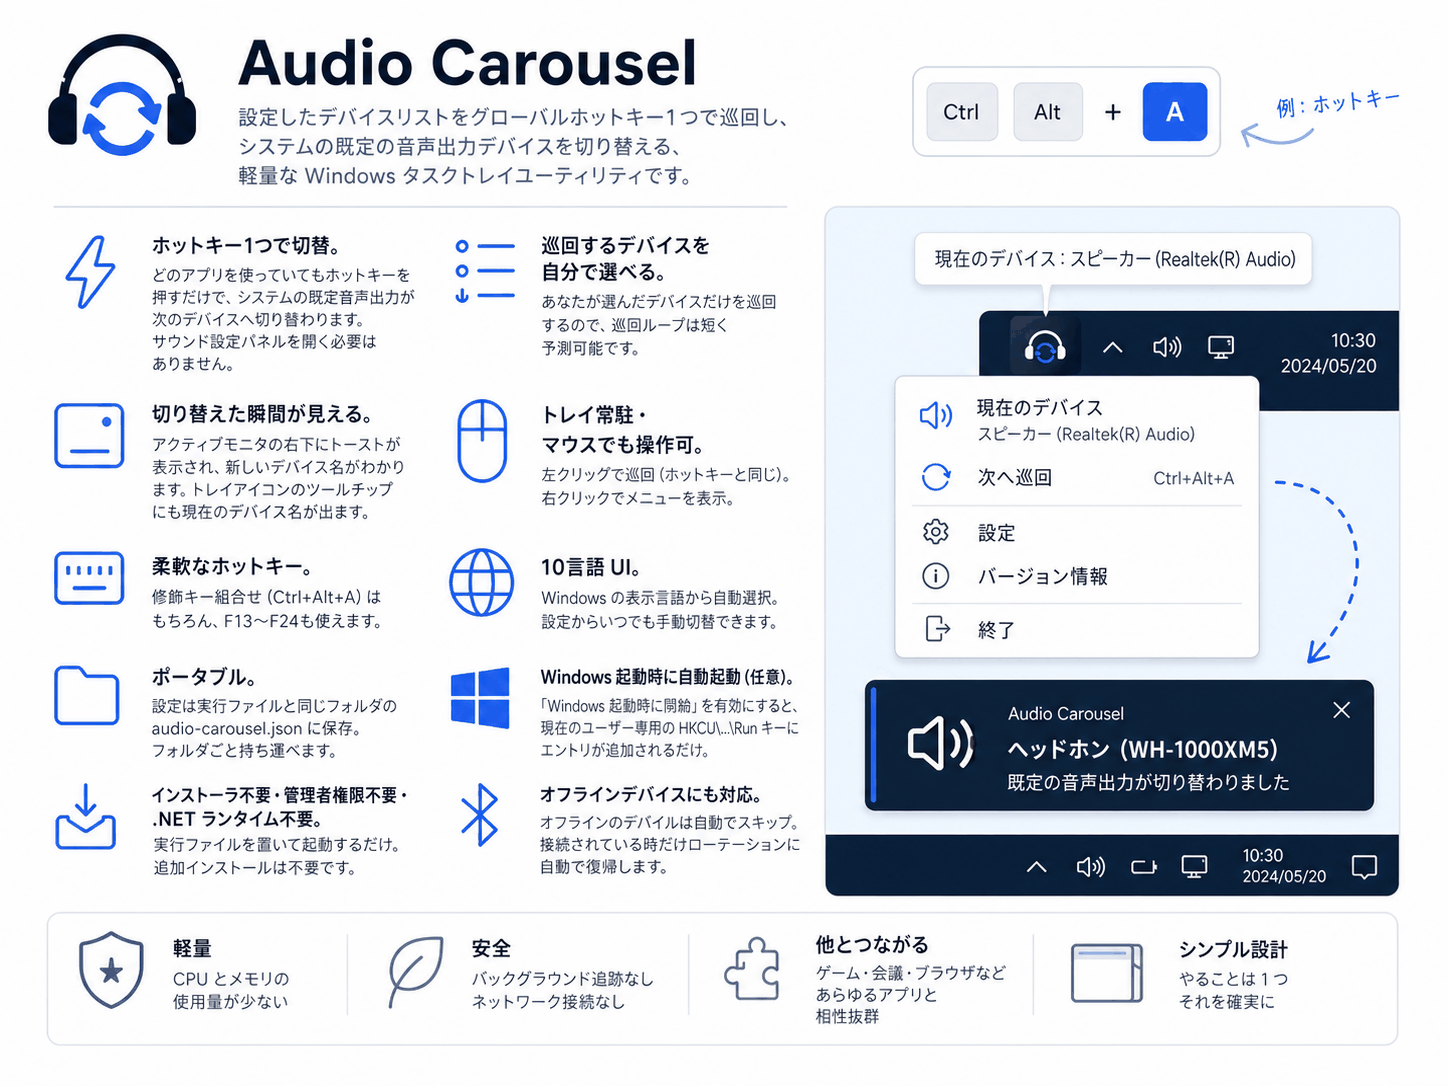
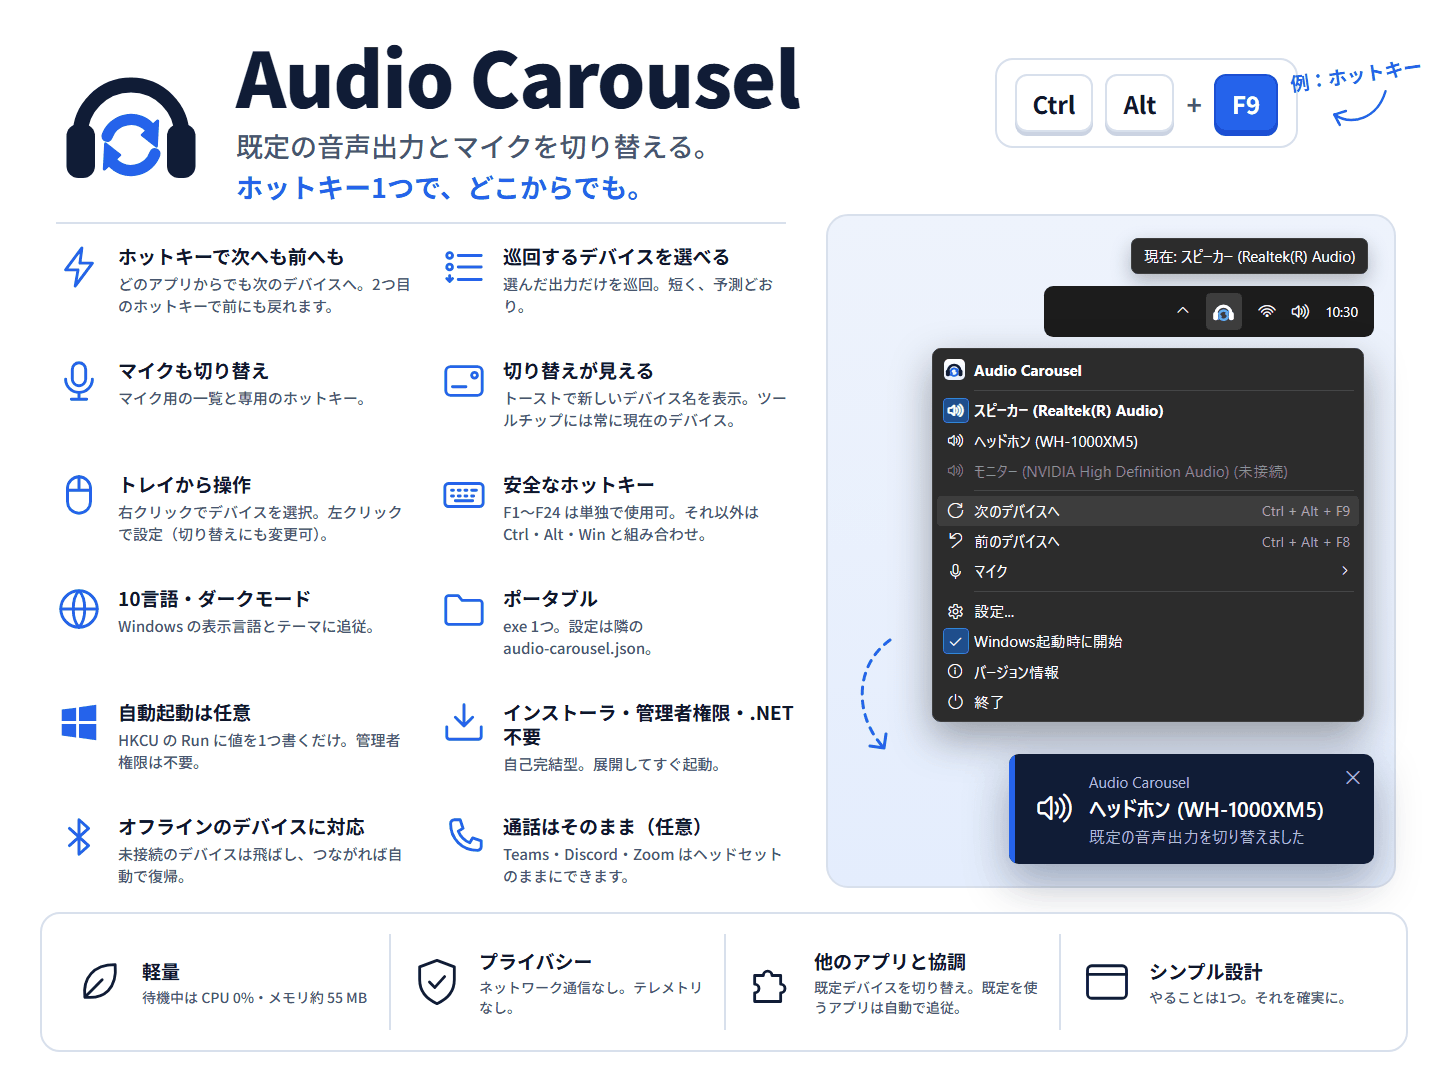
docs: ヒーロー画像をコードで描画し、実際のアプリと一致させる
- promo に Hero（Remotion Still、en/ja/zh-Hans）を追加。メニュー/トースト/
  ツールチップは実アプリと同じフォント・Segoe Fluent の同じグリフで再現し、
  表示文言は Strings.cs から抽出した appStrings.json をそのまま使う
- 機能説明を現行機能に更新（前後ホットキー、マイク、通話、左クリック設定、
  安全なホットキー規則、ダークモード）。各記述の根拠を heroStrings.ts に記載
- 下段は実測値（待機中 CPU 0%・約 55 MB）と検証済みの事実だけにする
- 例のホットキーを初回提案と同じ Ctrl+Alt+F9 に
- npm run hero → scripts/optimize-hero.py（256 色化）で docs/images を生成
  （約 100 KB/枚。oxipng は任意の追加パス）
- 英語メニュー「Cycle next」を「Next device」に統一（README も追従）

diff --git a/scripts/optimize-hero.py b/scripts/optimize-hero.py
@@ -1,0 +1,48 @@
+"""Turn promo's Hero stills into the README hero images.
+
+Usage (from the repo root):
+    cd promo && npm run hero          # renders promo/out/Hero{En,Ja,ZhHans}.png
+    python scripts/optimize-hero.py   # writes docs/images/hero-*.png
+
+256-colour MEDIANCUT quantization (LIBIMAGEQUANT is not in the Windows Pillow
+wheel), then Pillow's PNG optimizer. If `oxipng` is on PATH it is run as a
+final lossless pass.
+"""
+
+import shutil
+import subprocess
+import sys
+from pathlib import Path
+
+from PIL import Image
+
+ROOT = Path(__file__).resolve().parent.parent
+SOURCES = {
+    "HeroEn.png": "hero-en.png",
+    "HeroJa.png": "hero-ja.png",
+    "HeroZhHans.png": "hero-zh-Hans.png",
+}
+
+
+def main() -> int:
+    out_dir = ROOT / "docs" / "images"
+    oxipng = shutil.which("oxipng")
+    for src_name, dst_name in SOURCES.items():
+        src = ROOT / "promo" / "out" / src_name
+        if not src.exists():
+            print(f"missing {src}; run `npm run hero` in promo/ first", file=sys.stderr)
+            return 1
+        img = Image.open(src).convert("RGB")
+        quantized = img.quantize(colors=256, method=Image.Quantize.MEDIANCUT, dither=Image.Dither.NONE)
+        dst = out_dir / dst_name
+        quantized.save(dst, optimize=True)
+        if oxipng:
+            subprocess.run([oxipng, "-o", "4", "--strip", "safe", str(dst)], check=True)
+        print(f"wrote {dst.relative_to(ROOT)} ({dst.stat().st_size / 1024:.0f} KiB)")
+    if not oxipng:
+        print("note: oxipng not found; skipped the extra lossless pass")
+    return 0
+
+
+if __name__ == "__main__":
+    sys.exit(main())

diff --git a/tests/AudioCarousel.Tests/StringsTests.cs b/tests/AudioCarousel.Tests/StringsTests.cs
@@ -15,7 +15,7 @@ public class StringsTests
     public void Get_DefaultsToEnglish()
     {
         Strings.SetLanguage(Language.English);
-        Assert.Equal("Cycle next", Strings.Get("tray.cycleNext"));
+        Assert.Equal("Next device", Strings.Get("tray.cycleNext"));
     }
 
     [Fact]
@@ -34,7 +34,7 @@ public class StringsTests
     }
 
     [Theory]
-    [InlineData(Language.English, "Cycle next")]
+    [InlineData(Language.English, "Next device")]
     [InlineData(Language.Japanese, "次のデバイスへ")]
     [InlineData(Language.ChineseSimplified, "切换到下一个设备")]
     [InlineData(Language.ChineseTraditional, "切換到下一個裝置")]

diff --git a/src/AudioCarousel/I18n/Strings.cs b/src/AudioCarousel/I18n/Strings.cs
@@ -66,7 +66,7 @@ public static class Strings
             "(kein Gerät ausgewählt)", "(nenhum dispositivo selecionado)",
             "(устройство не выбрано)", "(장치가 선택되지 않음)"),
         ["tray.cycleNext"] = M(
-            "Cycle next", "次のデバイスへ",
+            "Next device", "次のデバイスへ",
             "切换到下一个设备", "切換到下一個裝置",
             "Siguiente dispositivo", "Périphérique suivant",
             "Nächstes Gerät", "Próximo dispositivo",

diff --git a/README.md b/README.md
@@ -39,7 +39,7 @@ installer, single executable, portable configuration.
 - **Tray-resident, mouse-friendly.** A left-click on the tray icon opens
   Settings, or — if you turn it on — cycles like the hotkey. Right-click
   for a menu that lists your devices — click one to switch to it
-  directly, plus Cycle next / previous, Settings, About, Exit.
+  directly, plus Next / Previous device, Settings, About, Exit.
 - **Flexible hotkeys.** Modifier combinations (`Ctrl+Alt+A`) and the
   rarely-used function keys (`F13`–`F24`, common on programmable
   keyboards and macro pads) all work.
@@ -138,7 +138,7 @@ In the Settings window:
 - **Right-click the tray icon** for the menu:
   - **Your registered devices** — the current one is checked; click any
     other to switch to it directly (offline devices are grayed out)
-  - **Cycle next** / **Previous device** — same as the hotkeys
+  - **Next device** / **Previous device** — same as the hotkeys
   - **Microphone** — your registered microphones and *Next microphone*
     (shown once you've added microphones)
   - **Settings** — reopen the settings window
